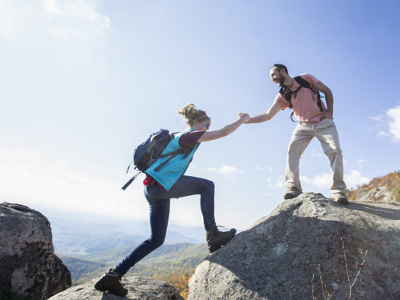
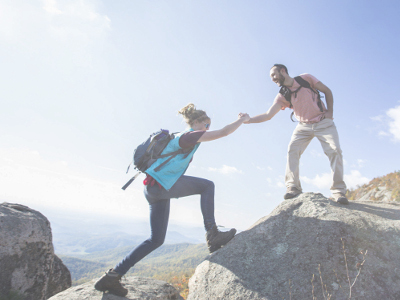
Changed brightness of questionaire images and changed result layout.

diff --git a/src/pages/questionnaire/questionnaire.html b/src/pages/questionnaire/questionnaire.html
@@ -174,7 +174,7 @@
             </ion-card>
           </ion-col>
           <ion-col *ngSwitchCase="'specific reason'" col-12 col-md-6 col-xl-4 @ngIfAnimation>
-            <ion-card (click)="answer()" class="clickable" @questionTrigger text-wrap>
+            <ion-card (click)="answer('result -> specific responsibility')" class="clickable" @questionTrigger text-wrap>
               <img src="../../assets/imgs/questionaire/specific_reason_yes.jpg"/>
               <div class="card-title">Ja</div>
               <div class="card-subtitle">Ich weiß bereits sehr genau was und wem ich helfen will.</div>
@@ -202,7 +202,7 @@
             </ion-card>
           </ion-col>
           <ion-col *ngSwitchCase="'measurable goals'" col-12 col-md-6 col-xl-4 @ngIfAnimation>
-            <ion-card (click)="answer('animals per human')" class="clickable" @questionTrigger text-wrap>
+            <ion-card (click)="answer('animals per human')" class="clickable bright" @questionTrigger text-wrap>
               <img src="../../assets/imgs/questionaire/measurable_goals_yes.jpg"/>
               <div class="card-title">Ja</div>
               <div class="card-subtitle">Nur messbare Projekte ermöglichen uns, uns kontinuierlich zu verbessern.</div>
@@ -265,7 +265,7 @@
             </ion-card>
           </ion-col>
           <ion-col *ngSwitchCase="'improve society'" col-12 col-md-6 col-xl-4 @ngIfAnimation>
-            <ion-card (click)="answer('knowledge values institutions')" class="clickable" @questionTrigger text-wrap>
+            <ion-card (click)="answer('knowledge values institutions')" class="clickable bright" @questionTrigger text-wrap>
               <img src="../../assets/imgs/questionaire/improve_society_maybe.jpg"/>
               <div class="card-title">Vielleicht</div>
               <div class="card-subtitle">Unsere Veränderungen könnten lange genug anhalten, um einen langfristigen Effekt zu haben.</div>
@@ -279,25 +279,25 @@
             </ion-card>
           </ion-col>
           <ion-col *ngSwitchCase="'knowledge values institutions'" col-12 col-md-6 col-xl-4 @ngIfAnimation>
-            <ion-card (click)="answer()" class="clickable" @questionTrigger text-wrap>
+            <ion-card (click)="answer('result -> human knowledge')" class="clickable" @questionTrigger text-wrap>
               <img src="../../assets/imgs/questionaire/knowledge.jpg"/>
               <div class="card-title">Wissen</div>
             </ion-card>
           </ion-col>
           <ion-col *ngSwitchCase="'knowledge values institutions'" col-12 col-md-6 col-xl-4 @ngIfAnimation>
-            <ion-card (click)="answer()" class="clickable" @questionTrigger text-wrap>
+            <ion-card (click)="answer('result -> values')" class="clickable" @questionTrigger text-wrap>
               <img src="../../assets/imgs/questionaire/values.jpg"/>
               <div class="card-title">Werte</div>
             </ion-card>
           </ion-col>
           <ion-col *ngSwitchCase="'knowledge values institutions'" col-12 col-md-6 col-xl-4 @ngIfAnimation>
-            <ion-card (click)="answer()" class="clickable" @questionTrigger text-wrap>
+            <ion-card (click)="answer('result -> institutions')" class="clickable" @questionTrigger text-wrap>
               <img src="../../assets/imgs/questionaire/institutions.jpg"/>
               <div class="card-title">Institutionen</div>
             </ion-card>
           </ion-col>
           <ion-col *ngSwitchCase="'environmental damage'" col-12 col-md-6 col-xl-4 @ngIfAnimation>
-            <ion-card (click)="answer()" class="clickable" @questionTrigger text-wrap>
+            <ion-card (click)="answer('result -> environment')" class="clickable" @questionTrigger text-wrap>
               <img src="../../assets/imgs/questionaire/environmental_damage_yes.jpg"/>
               <div class="card-title">Ja</div>
               <div class="card-subtitle">Das Wohlergehen von hunderten Generationen ist beroht.</div>
@@ -311,19 +311,19 @@
             </ion-card>
           </ion-col>
           <ion-col *ngSwitchCase="'rights catastrophe knowledge'" col-12 col-md-6 col-xl-4 @ngIfAnimation>
-            <ion-card (click)="answer()" class="clickable" @questionTrigger text-wrap>
+            <ion-card (click)="answer('result -> human rights')" class="clickable" @questionTrigger text-wrap>
               <img src="../../assets/imgs/questionaire/human_rights.jpg"/>
               <div class="card-title">Menschenrechte</div>
             </ion-card>
           </ion-col>
           <ion-col *ngSwitchCase="'rights catastrophe knowledge'" col-12 col-md-6 col-xl-4 @ngIfAnimation>
-            <ion-card (click)="answer()" class="clickable" @questionTrigger text-wrap>
+            <ion-card (click)="answer('result -> catastrophe')" class="clickable" @questionTrigger text-wrap>
               <img src="../../assets/imgs/questionaire/catastrophe.jpg"/>
               <div class="card-title">Verhinderung globaler Katastrophen</div>
             </ion-card>
           </ion-col>
           <ion-col *ngSwitchCase="'rights catastrophe knowledge'" col-12 col-md-6 col-xl-4 @ngIfAnimation>
-            <ion-card (click)="answer()" class="clickable" @questionTrigger text-wrap>
+            <ion-card (click)="answer('result -> human knowledge')" class="clickable" @questionTrigger text-wrap>
               <img src="../../assets/imgs/questionaire/knowledge.jpg"/>
               <div class="card-title">Erweiterung des menschlichen Wissens</div>
             </ion-card>
@@ -349,13 +349,13 @@
             </ion-card>
           </ion-col>
           <ion-col *ngSwitchCase="'farm life'" col-12 col-md-6 col-xl-4 @ngIfAnimation>
-            <ion-card (click)="answer()" class="clickable" @questionTrigger text-wrap>
+            <ion-card (click)="answer('result -> animal suffering')" class="clickable" @questionTrigger text-wrap>
               <img src="../../assets/imgs/questionaire/farm_life_yes.jpg"/>
               <div class="card-title">Ja</div>
             </ion-card>
           </ion-col>
           <ion-col *ngSwitchCase="'farm life'" col-12 col-md-6 col-xl-4 @ngIfAnimation>
-            <ion-card (click)="answer()" class="clickable" @questionTrigger text-wrap>
+            <ion-card (click)="answer('result -> animal death')" class="clickable" @questionTrigger text-wrap>
               <img src="../../assets/imgs/questionaire/farm_life_no.jpg"/>
               <div class="card-title">Nein</div>
             </ion-card>
@@ -368,41 +368,41 @@
             </ion-card>
           </ion-col>
           <ion-col *ngSwitchCase="'opportunity health'" col-12 col-md-6 col-xl-4 @ngIfAnimation>
-            <ion-card (click)="answer('death suffering')" class="clickable" @questionTrigger text-wrap>
+            <ion-card (click)="answer('death suffering')" class="clickable bright" @questionTrigger text-wrap>
               <img src="../../assets/imgs/questionaire/health.jpg"/>
               <div class="card-title">Gesundheit</div>
               <div class="card-subtitle">Wir sollten vor allem Leid verhindern.</div>
             </ion-card>
           </ion-col>
           <ion-col *ngSwitchCase="'opportunity health'" col-12 col-md-6 col-xl-4 @ngIfAnimation>
-            <ion-card (click)="answer()" class="clickable" @questionTrigger text-wrap>
+            <ion-card (click)="answer('result -> other')" class="clickable" @questionTrigger text-wrap>
               <img src="../../assets/imgs/questionaire/unknown.jpg"/>
               <div class="card-title">Etwas Anderes</div>
             </ion-card>
           </ion-col>
           <ion-col *ngSwitchCase="'poverty education'" col-12 col-md-6 col-xl-4 @ngIfAnimation>
-            <ion-card (click)="answer()" class="clickable" @questionTrigger text-wrap>
+            <ion-card (click)="answer('result -> poverty')" class="clickable" @questionTrigger text-wrap>
               <img src="../../assets/imgs/questionaire/poverty.jpg"/>
               <div class="card-title">Armutsbekämpfung</div>
               <div class="card-subtitle">Das Einkommen von drei Familien für ein Jahr verdoppeln.</div>
             </ion-card>
           </ion-col>
           <ion-col *ngSwitchCase="'poverty education'" col-12 col-md-6 col-xl-4 @ngIfAnimation>
-            <ion-card (click)="answer()" class="clickable" @questionTrigger text-wrap>
+            <ion-card (click)="answer('result -> education')" class="clickable" @questionTrigger text-wrap>
               <img src="../../assets/imgs/questionaire/education.jpg"/>
               <div class="card-title">Bildung</div>
               <div class="card-subtitle">10 Schuljahre für 3 Kinder ermöglichen.</div>
             </ion-card>
           </ion-col>
           <ion-col *ngSwitchCase="'death suffering'" col-12 col-md-6 col-xl-4 @ngIfAnimation>
-            <ion-card (click)="answer()" class="clickable" @questionTrigger text-wrap>
+            <ion-card (click)="answer('result -> human death')" class="clickable" @questionTrigger text-wrap>
               <img src="../../assets/imgs/questionaire/death.jpg"/>
               <div class="card-title">Tod</div>
               <div class="card-subtitle">Den Tod eines Kindes durch Malaria verhindern.</div>
             </ion-card>
           </ion-col>
           <ion-col *ngSwitchCase="'death suffering'" col-12 col-md-6 col-xl-4 @ngIfAnimation>
-            <ion-card (click)="answer()" class="clickable" @questionTrigger text-wrap>
+            <ion-card (click)="answer('result -> human health')" class="clickable" @questionTrigger text-wrap>
               <img src="../../assets/imgs/questionaire/suffering.jpg"/>
               <div class="card-title">Leid</div>
               <div class="card-subtitle">1000 Menschen 10 Jahre lang benötigte Vitamine verabreichen.</div>
@@ -413,9 +413,9 @@
     </ion-item>
   </ion-list>
   <!-- RESULTS -->
-  <ion-list no-lines [ngSwitch]="nav">
-    <ion-item *ngSwitchCase="'result -> existential risk'">
-      <ion-grid fixed>
+  <ion-grid fixed [ngSwitch]="nav">
+    <ion-row justify-content-center>
+      <ion-col *ngSwitchCase="'result -> existential risk'" col-12 col-md-6 col-xl-6 @ngIfAnimation>
         <ion-card>
           <ion-card-header>Dein Testresultat</ion-card-header>
           <ion-card-content text-wrap>
@@ -435,18 +435,86 @@
                 KIs moralisch handeln.</li>
             </ul>
           </ion-card-content>
-          <img src="../../assets/imgs/results/existential_risks.jpg">
-          <ion-list>
-            <ion-item>
-              <ion-thumbnail item-start>
-                <img src="../../assets/imgs/organizations/future_of_humanity_institute.png"/>
-              </ion-thumbnail>
-              <h2>Future of Humanity Institute</h2>
-              <p>Bla bla bla</p>
-            </ion-item>
-          </ion-list>
         </ion-card>
-      </ion-grid>
+      </ion-col>
+      <ion-col *ngSwitchCase="'result -> existential risk'" col-12 col-md-6 col-xl-6 @ngIfAnimation>
+        <ion-list>
+          <ion-item-sliding *ngFor="let o of dataService.organizations">
+            <ion-item text-wrap>
+              <ion-thumbnail item-start>
+                <img src="../../assets/imgs/organizations/{{ o.thumbnail }}"/>
+              </ion-thumbnail>
+              <h2>{{ o.name }}</h2>
+              <h3>{{ o.slogan }}</h3>
+              <p>{{ o.shortDescription }}</p>
+              <ion-badge item-end *ngIf="o.topCharity" color="danger">Top</ion-badge>
+            </ion-item>
+            <ion-item-options side="right">
+              <button ion-button color="primary">
+                <ion-icon name="information-circle"></ion-icon>
+                Mehr Info
+              </button>
+              <a [href]="o.website">
+                <button ion-button color="secondary">
+                  <ion-icon name="browsers"></ion-icon>
+                  Website
+                </button>
+              </a>
+              <a [href]="o.donationLink">
+                <button ion-button color="danger">
+                  <ion-icon name="cash"></ion-icon>
+                  Spenden
+                </button>
+              </a>
+            </ion-item-options>
+          </ion-item-sliding>
+        </ion-list>
+      </ion-col>
+    </ion-row>
+  </ion-grid>
+
+  <!--
+    <ion-item *ngSwitchCase="'result -> specific responsibility'">
+
     </ion-item>
-  </ion-list>
+    <ion-item *ngSwitchCase="'result -> human knowledge'">
+
+    </ion-item>
+    <ion-item *ngSwitchCase="'result -> values'">
+
+    </ion-item>
+    <ion-item *ngSwitchCase="'result -> institutions'">
+
+    </ion-item>
+    <ion-item *ngSwitchCase="'result -> environment'">
+
+    </ion-item>
+    <ion-item *ngSwitchCase="'result -> human rights'">
+
+    </ion-item>
+    <ion-item *ngSwitchCase="'result -> catastrophe'">
+
+    </ion-item>
+    <ion-item *ngSwitchCase="'result -> animal suffering'">
+
+    </ion-item>
+    <ion-item *ngSwitchCase="'result -> animal death'">
+
+    </ion-item>
+    <ion-item *ngSwitchCase="'result -> poverty'">
+
+    </ion-item>
+    <ion-item *ngSwitchCase="'result -> education'">
+
+    </ion-item>
+    <ion-item *ngSwitchCase="'result -> human death'">
+
+    </ion-item>
+    <ion-item *ngSwitchCase="'result -> human health'">
+
+    </ion-item>
+    <ion-item *ngSwitchCase="'result -> other'">
+
+    </ion-item>
+  -->
 </ion-content>

diff --git a/src/pages/questionnaire/questionnaire.ts b/src/pages/questionnaire/questionnaire.ts
@@ -1,6 +1,7 @@
 import { Component } from '@angular/core';
 import { NavController } from 'ionic-angular';
 import { trigger, style, transition, animate, query, animateChild } from '@angular/animations'
+import { DataService } from "../../app/services/data";
 
 @Component({
   selector: 'questionaire',
@@ -33,9 +34,8 @@ import { trigger, style, transition, animate, query, animateChild } from '@angul
 })
 export class QuestionnairePage {
   public nav: String = 'start';
-  result = null;
 
-  constructor(public navCtrl: NavController) { }
+  constructor(public navCtrl: NavController, public dataService: DataService) { }
 
   answer(to: String) {
     this.nav = '';

diff --git a/src/pages/search/search.ts b/src/pages/search/search.ts
@@ -1,6 +1,5 @@
 import { Component } from '@angular/core';
 import { NavController } from 'ionic-angular';
-
 import { DataService } from "../../app/services/data";
 
 @Component({

diff --git a/src/pages/questionnaire/questionnaire.scss b/src/pages/questionnaire/questionnaire.scss
@@ -23,5 +23,8 @@ questionaire {
       color: #fff;
       padding: 0 3px;
     }
+    .bright .card-title, .bright .card-subtitle {
+      color: #222;
+    }
   }
 }
